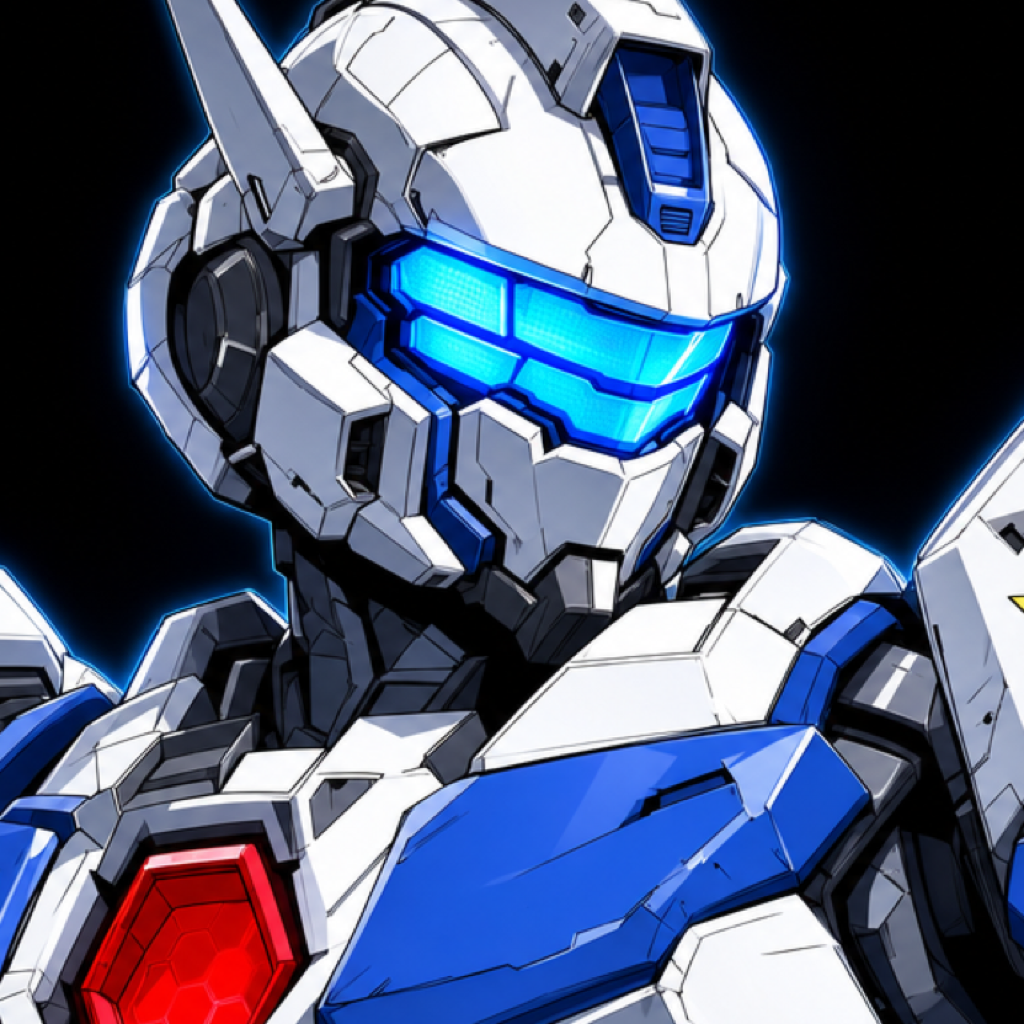
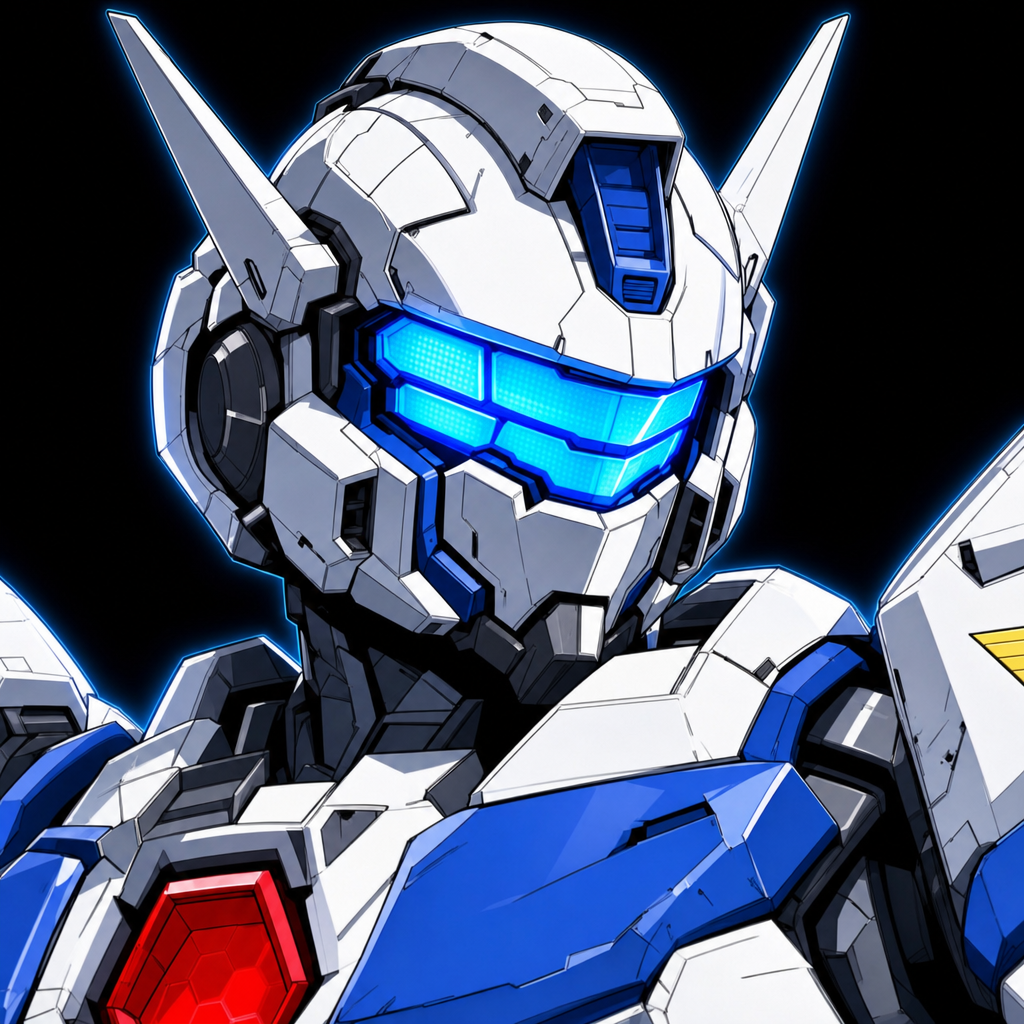
feat(web): mercenary landing heroes, dual-spike pfp, and ui polish
Regenerate seller, raider, and buyer manga hero panels locked to Mercenary
Mk-0 with symmetrical temple spikes. Remove legacy CSS eye-glow overlays on
raider and buyer tabs. Shrink sidebar title, regen pfp, and add
generate:landing-hero command.

diff --git a/apps/web/src/lib/landing-workflow.ts b/apps/web/src/lib/landing-workflow.ts
@@ -65,28 +65,8 @@ export const HERO_EYE_GLOWS_BY_WORKFLOW: Record<
   Partial<Record<number, readonly HeroEyeGlow[]>>
 > = {
   seller: {},
-  raider: {
-    1: [
-      { top: '34%', left: '46%', width: '9%' },
-      { top: '34%', left: '60%', width: '9%' },
-      { top: '19%', left: '53%', width: '4%', variant: 'sensor' },
-    ],
-    2: [
-      { top: '34%', left: '32%', width: '9%' },
-      { top: '34%', left: '46%', width: '9%' },
-    ],
-  },
-  buyer: {
-    1: [
-      { top: '17%', left: '50%', width: '8%' },
-      { top: '17%', left: '63%', width: '8%' },
-    ],
-    2: [
-      { top: '17%', left: '34%', width: '8%' },
-      { top: '17%', left: '47%', width: '8%' },
-      { top: '8%', left: '40%', width: '3.5%', variant: 'sensor' },
-    ],
-  },
+  raider: {},
+  buyer: {},
 };
 
 export const WORKFLOW_STEPS: Record<WorkflowTabId, readonly { label: string; value: string }[]> = {

diff --git a/apps/web/src/styles/layout/_shell.css b/apps/web/src/styles/layout/_shell.css
@@ -223,9 +223,9 @@ pre,
   display: block;
   color: var(--text);
   font-family: 'Oxanium', ui-sans-serif, system-ui, sans-serif;
-  font-size: clamp(1.35rem, 2.2vw, 1.55rem);
-  font-weight: 800;
-  letter-spacing: 0.05em;
+  font-size: clamp(1rem, 1.5vw, 1.15rem);
+  font-weight: 700;
+  letter-spacing: 0.04em;
   line-height: 1;
   text-transform: uppercase;
   white-space: nowrap;

diff --git a/docs/reference/landing-hero-art.md b/docs/reference/landing-hero-art.md
@@ -87,7 +87,16 @@ Slices inherit `background-size: 400% 100%` from `.hero__slice`. Inline `backgro
 | raider       | `apps/web/src/assets/hero-manga-raiders.jpg` |
 | buyer        | `apps/web/src/assets/hero-manga-buyer.jpg`   |
 
-Raider and buyer art uses the same RX-78 Gundam reference as seller (B&W manga, different pose). Seller keeps baked yellow eyes in the JPG. Raider and buyer use CSS eye overlays (`HERO_EYE_GLOWS_BY_WORKFLOW`) tinted yellow and red to match workflow tabs.
+All three panels use **Mercenary Mk-0** (symmetrical temple spikes, hex reactor, triple visor) in B&W manga ink with visor and accent color baked into the JPG. No CSS eye overlays — `HERO_EYE_GLOWS_BY_WORKFLOW` is empty for every tab.
+
+Regenerate from OC references:
+
+```bash
+pnpm sync:oc-references
+pnpm generate:landing-hero
+```
+
+Prompts: `.private/demo-video/prompts/landing-hero-workflows.md`
 
 ## Changing the look
 

diff --git a/AGENTS.md b/AGENTS.md
@@ -12,6 +12,7 @@ Boss Raid is the platform. Mercenary is the orchestrator agent.
 - [README.md](/Users/area/repos/boss-raid/README.md)
 - [docs/README.md](/Users/area/repos/boss-raid/docs/README.md)
 - [docs/getting-started.md](/Users/area/repos/boss-raid/docs/getting-started.md)
+- [docs/discount-inference.md](/Users/area/repos/boss-raid/docs/discount-inference.md) — discount inference / Surplus Intelligence parity lane
 - [docs/operators/architecture.md](/Users/area/repos/boss-raid/docs/operators/architecture.md)
 - [docs/reference/routes.md](/Users/area/repos/boss-raid/docs/reference/routes.md)
 - [docs/operators/runtime.md](/Users/area/repos/boss-raid/docs/operators/runtime.md)

diff --git a/assets/oc-references/DESIGN-LOCK.md b/assets/oc-references/DESIGN-LOCK.md
@@ -22,8 +22,8 @@ pnpm sync:oc-references
 
 ## Must keep
 
-- Single chrome sensor horn on **right temple only** (canonical pfp / hero clips)
-- **Legal float exception (S07):** matching symmetrical chrome spike fins on **both temples** plus localized palm charge glow
+- Matching symmetrical chrome sensor spike fins on **both temples** (canonical pfp and legal float)
+- **Legal float (S07):** localized palm charge glow in addition to dual temple spikes
 - Triple-segment horizontal visor band — **no V-fin, no twin antenna**
 - Off-center **hex** chest reactor `#fb2f38` — not a round cockpit
 - Trapezoid **wedge** shoulders with one yellow `#fff867` chevron each

diff --git a/docs/operators/runtime.md b/docs/operators/runtime.md
@@ -37,6 +37,7 @@ Regenerate legal-page Mercenary float (Venice; requires `VENICE_API_KEY` in `.pr
 ```bash
 pnpm sync:oc-references
 pnpm generate:pfp               # Mercenary bust portrait → assets/boss-raid-pfp.png
+pnpm generate:landing-hero      # seller / raider / buyer manga panels → apps/web/src/assets/
 pnpm generate:legal-character   # keyframe + clip + webm export
 pnpm export:legal-character   # re-export webm from existing S07 MP4 only
 ```
